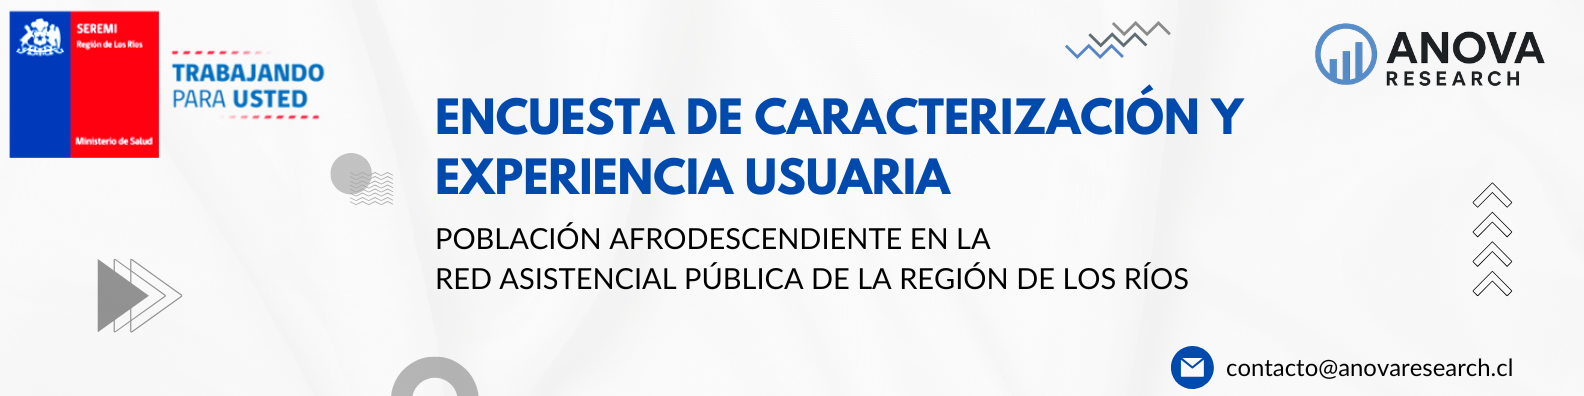
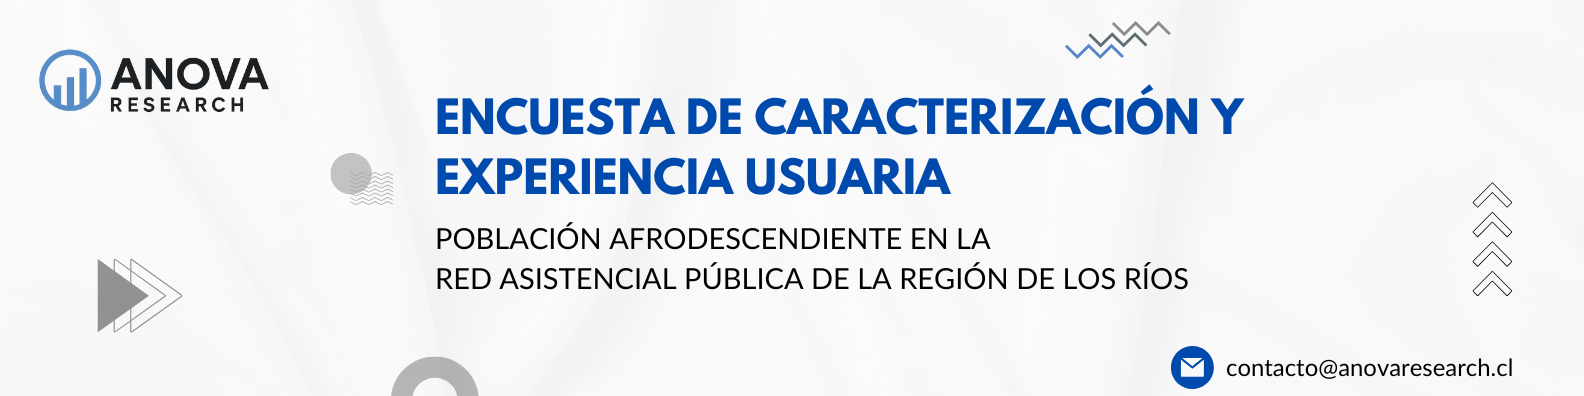
encuesta

Changed region(s): [[0.0, 0.0, 0.2165, 0.4242], [0.8043, 0.0606, 0.9899, 0.2121]]

diff --git a/sw.js b/sw.js
@@ -1,6 +1,6 @@
 // Nombre de la caché — súbelo (v2, v3...) cada vez que cambies estos archivos
 // para forzar que los dispositivos ya instalados bajen la versión nueva.
-const CACHE_NAME = "encuesta-cache-v7";
+const CACHE_NAME = "encuesta-cache-v8";
 
 const APP_SHELL = [
   "./",
@@ -12,7 +12,11 @@ const APP_SHELL = [
   "./icons/icon-512.png",
   "./icons/icon-512-maskable.png",
   "./assets/logo-anova.png",
-  "./assets/banner-anova.png"
+  "./assets/banner-anova.png",
+  "./favicon.ico",
+  "./assets/favicon-32.png",
+  "./assets/favicon-192.png",
+  "./assets/favicon-180.png"
 ];
 
 // Instala y guarda todo el "app shell" en caché para que cargue sin internet

diff --git a/index.html b/index.html
@@ -55,8 +55,8 @@
 
       <div class="card done-screen" id="doneScreen" style="display:none;">
         <span class="signal-dot" style="margin: 0 auto 18px; display:block;"></span>
-        <h2>Respuestas guardadas</h2>
-        <p>Se guardaron en este dispositivo. Cuando haya conexión, se envían solas a la base de datos.</p>
+        <h2>¡Muchas gracias!</h2>
+        <p>Su respuesta ha sido registrada correctamente.</p>
         <button class="btn-restart" id="btnRestart">Responder otra vez</button>
       </div>
 

diff --git a/app.js b/app.js
@@ -327,6 +327,7 @@ function buildSteps() {
 
 function isStepAnswered(step) {
   if (step.tipo === "identificacion") return true; // opcional, nunca bloquea
+  if (step.requerida === false) return true; // opcional, no bloquea aunque esté vacía
   return isAnswered(step);
 }
 
